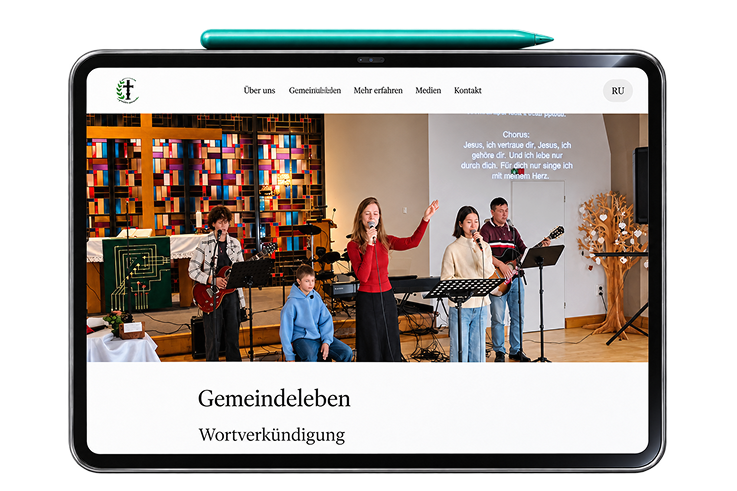
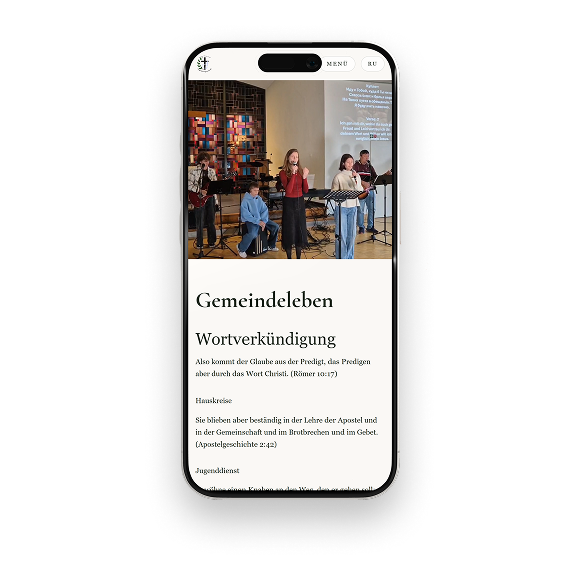
feat: add mobile glass folders feature and styling components

diff --git a/src/features/effects/ui/Wildyriftian.module.css b/src/features/effects/ui/Wildyriftian.module.css
@@ -294,14 +294,58 @@
   bottom: -9rem;
 }
 
+@media (min-width: 1025px) and (max-width: 1440px) {
+  .wildyriftian {
+    position: relative;
+    width: 100%;
+    height: 100svh;
+    overflow: hidden;
+  }
+
+  .hero {
+    position: absolute;
+    top: 18%;
+    left: 50%;
+    transform: translate(-50%, -50%);
+    width: 90%;
+    max-width: 800px;
+    text-align: center;
+    z-index: 10;
+  }
+
+  .heroTitle {
+    font-size: 3rem;
+  }
+
+  .heroDescription {
+    font-size: 1rem;
+  }
+
+  .desktopFolders {
+    display: none;
+  }
+
+  .mobileFolders {
+    display: flex;
+    position: absolute;
+    bottom: 0;
+    left: 0;
+    width: 100%;
+    z-index: 5;
+    align-items: stretch;
+  }
+
+  .mobileFolders > * {
+    flex: 1;
+  }
+}
+
 @media (max-width: 1024px) {
   .wildyriftian {
     display: flex;
     flex-direction: column;
-    overflow-y: auto;
-    overflow-x: hidden;
-    height: auto;
-    min-height: 100svh;
+    overflow: hidden;
+    height: 100svh;
   }
 
   .hero {

diff --git a/src/features/effects/ui/MobileGlassFolders/MobileGlassFolders.module.css b/src/features/effects/ui/MobileGlassFolders/MobileGlassFolders.module.css
@@ -32,6 +32,21 @@
   margin-top: -1rem;
 }
 
+@media (min-width: 1025px) and (max-width: 1440px) {
+  .grid {
+    row-gap: 2rem;
+  }
+
+  .container {
+    padding: 0.5rem 1rem 3rem;
+  }
+
+  .cardItem :global(.gf-root) {
+    --gf-width-scale: 1.3;
+    zoom: 0.82;
+  }
+}
+
 @media (max-width: 1024px) {
   .cardItem :global(.gf-root) {
     --gf-width-scale: 1.2;
